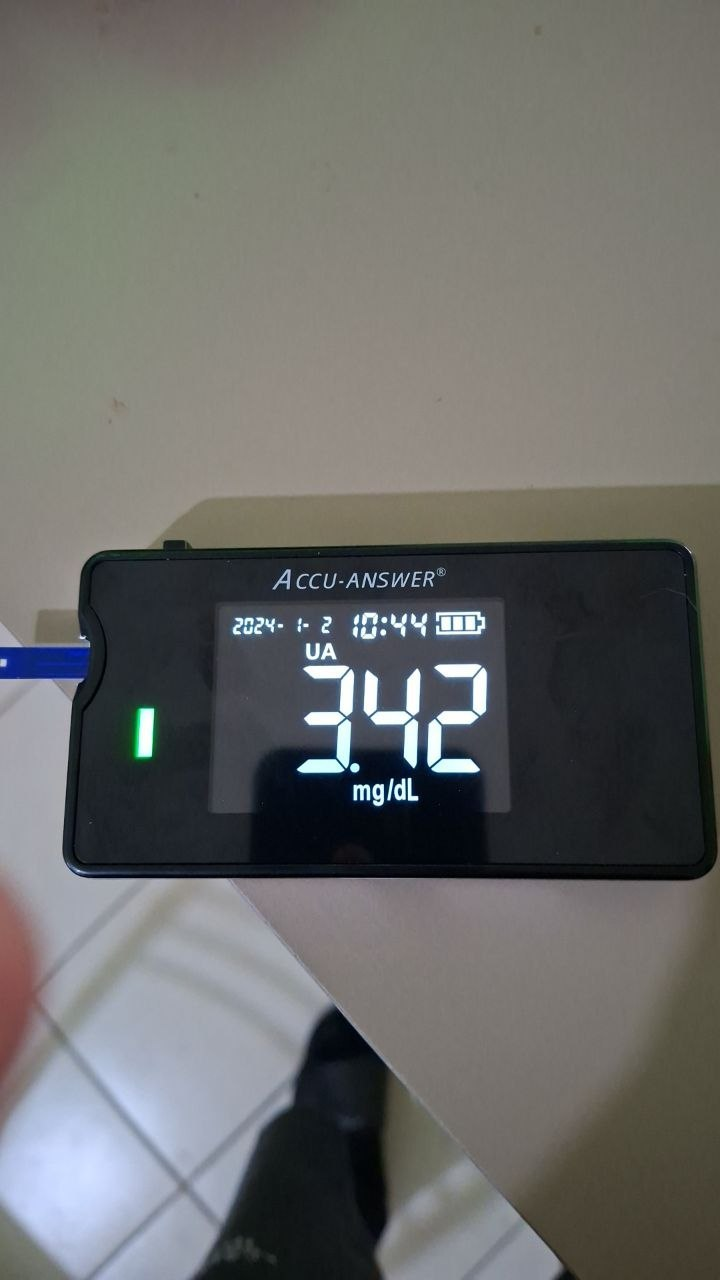
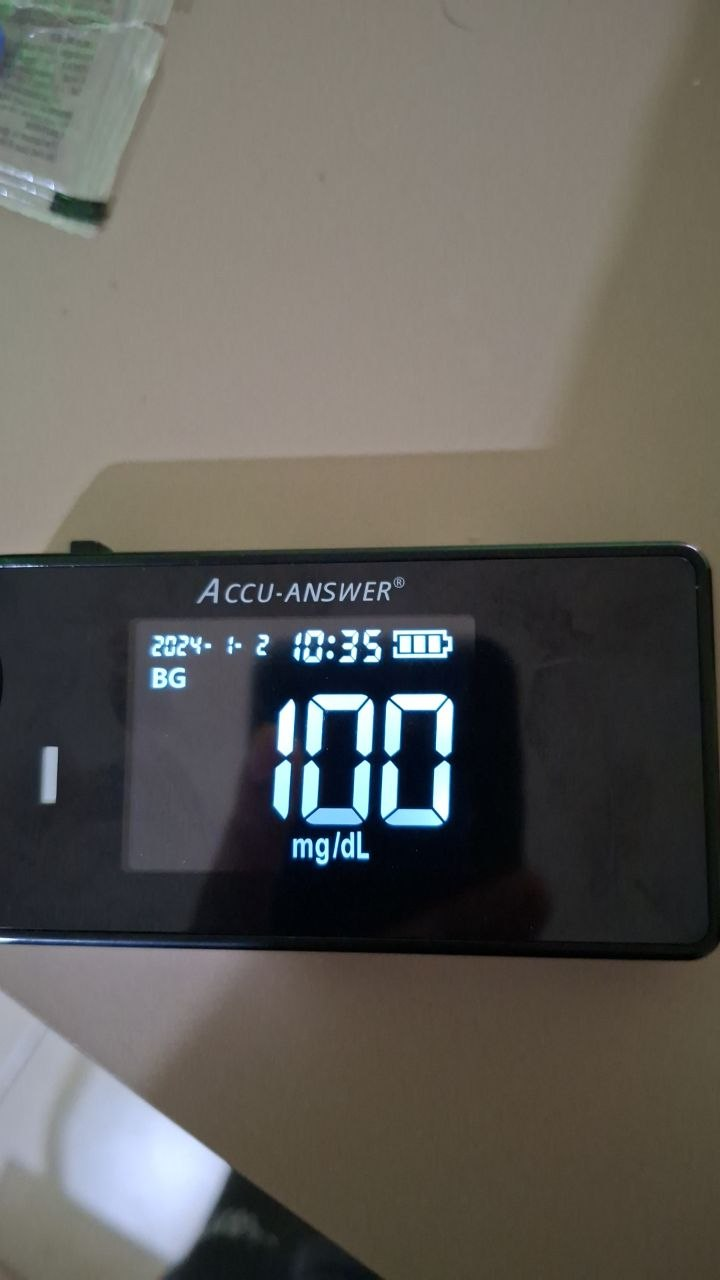
fix: correct image-to-metric mapping, labeled gallery layout, entity screenshot PNG
- Verified each image with Gemini Vision OCR to match correct metric
- Images renamed: glucose=100, cholesterol=103, hemoglobin=12.5, uric_acid=3.42
- Gallery layout: HTML table with image + label + value under each photo
- Entity screenshot: fixed extension .jpg → .png (was PNG saved as JPG)
- Updated README.md, README_ES.md, HEALTH-MONITORING.md

diff --git a/README_ES.md b/README_ES.md
@@ -306,23 +306,20 @@ Monitoreo de salud en tiempo real con dos fuentes de datos:
 
 ### Mediciones reales con Accu-Answer iSaw 4-in-1
 
-<p align="center">
-<img src="docs/health-monitoring/images/accu-answer-glucose-100.jpg" alt="Glucosa 100 mg/dL" width="160">
-<img src="docs/health-monitoring/images/accu-answer-cholesterol-103.jpg" alt="Colesterol 103 mg/dL" width="160">
-<img src="docs/health-monitoring/images/accu-answer-hemoglobin-12.5.jpg" alt="Hemoglobina 12.5 g/dL" width="160">
-<img src="docs/health-monitoring/images/accu-answer-uric-acid-3.42.jpg" alt="Ácido Úrico 3.42 mg/dL" width="160">
-</p>
+<table>
+<tr>
+<td align="center"><img src="docs/health-monitoring/images/accu-answer-glucose-100.jpg" width="160"><br><b>🔵 Glucosa</b><br>100 mg/dL 🟢</td>
+<td align="center"><img src="docs/health-monitoring/images/accu-answer-cholesterol-103.jpg" width="160"><br><b>🟣 Colesterol</b><br>103 mg/dL 🟢</td>
+<td align="center"><img src="docs/health-monitoring/images/accu-answer-hemoglobin-12.5.jpg" width="160"><br><b>🔴 Hemoglobina</b><br>12.5 g/dL 🟢</td>
+<td align="center"><img src="docs/health-monitoring/images/accu-answer-uric-acid-3.42.jpg" width="160"><br><b>🟠 Ácido Úrico</b><br>3.42 mg/dL 🟢</td>
+</tr>
+</table>
 
-| Métrica | Valor | Estado |
-|---------|-------|:------:|
-| 🔵 Glucosa | 100 mg/dL | 🟢 Normal |
-| 🟣 Colesterol | 103 mg/dL | 🟢 Excelente (¡era 250!) |
-| 🔴 Hemoglobina | 12.5 g/dL | 🟢 Normal |
-| 🟠 Ácido Úrico | 3.42 mg/dL | 🟢 Normal |
+> 🏆 **Logro clave**: Colesterol reducido de **250 → 103 mg/dL** (-58.8%) sin estatinas, mediante dieta y cambios de estilo de vida monitoreados por TokioAI.
 
 ### Entity Health Dashboard (En vivo)
 
-<img src="docs/health-monitoring/images/entity-health-dashboard.jpg" alt="TokioAI Entity — Dashboard de salud mostrando signos vitales y resultados de laboratorio en tiempo real" width="700">
+<img src="docs/health-monitoring/images/entity-health-dashboard.png" alt="TokioAI Entity — Dashboard de salud mostrando signos vitales y resultados de laboratorio en tiempo real" width="700">
 
 *El Entity muestra signos vitales en tiempo real del smartwatch BLE y resultados de laboratorio del Accu-Answer iSaw, todo en la pantalla de la Raspberry Pi 5.*
 

diff --git a/README.md b/README.md
@@ -382,23 +382,20 @@ Real-time health tracking with two data sources:
 
 ### Real measurements from Accu-Answer iSaw 4-in-1
 
-<p align="center">
-<img src="docs/health-monitoring/images/accu-answer-glucose-100.jpg" alt="Glucose 100 mg/dL" width="160">
-<img src="docs/health-monitoring/images/accu-answer-cholesterol-103.jpg" alt="Cholesterol 103 mg/dL" width="160">
-<img src="docs/health-monitoring/images/accu-answer-hemoglobin-12.5.jpg" alt="Hemoglobin 12.5 g/dL" width="160">
-<img src="docs/health-monitoring/images/accu-answer-uric-acid-3.42.jpg" alt="Uric Acid 3.42 mg/dL" width="160">
-</p>
+<table>
+<tr>
+<td align="center"><img src="docs/health-monitoring/images/accu-answer-glucose-100.jpg" width="160"><br><b>🔵 Glucose</b><br>100 mg/dL 🟢</td>
+<td align="center"><img src="docs/health-monitoring/images/accu-answer-cholesterol-103.jpg" width="160"><br><b>🟣 Cholesterol</b><br>103 mg/dL 🟢</td>
+<td align="center"><img src="docs/health-monitoring/images/accu-answer-hemoglobin-12.5.jpg" width="160"><br><b>🔴 Hemoglobin</b><br>12.5 g/dL 🟢</td>
+<td align="center"><img src="docs/health-monitoring/images/accu-answer-uric-acid-3.42.jpg" width="160"><br><b>🟠 Uric Acid</b><br>3.42 mg/dL 🟢</td>
+</tr>
+</table>
 
-| Metric | Value | Status |
-|--------|-------|:------:|
-| 🔵 Glucose | 100 mg/dL | 🟢 Normal |
-| 🟣 Cholesterol | 103 mg/dL | 🟢 Excellent (was 250!) |
-| 🔴 Hemoglobin | 12.5 g/dL | 🟢 Normal |
-| 🟠 Uric Acid | 3.42 mg/dL | 🟢 Normal |
+> 🏆 **Key achievement**: Cholesterol reduced from **250 → 103 mg/dL** (-58.8%) without statins, through diet and lifestyle changes tracked by TokioAI.
 
 ### Entity Health Dashboard (Live)
 
-<img src="docs/health-monitoring/images/entity-health-dashboard.jpg" alt="TokioAI Entity — Health Dashboard showing real-time vitals and lab results" width="700">
+<img src="docs/health-monitoring/images/entity-health-dashboard.png" alt="TokioAI Entity — Health Dashboard showing real-time vitals and lab results" width="700">
 
 *The Entity displays real-time vitals from the BLE smartwatch and lab results from the Accu-Answer iSaw, all on the Raspberry Pi 5 screen.*
 

diff --git a/docs/health-monitoring/HEALTH-MONITORING.md b/docs/health-monitoring/HEALTH-MONITORING.md
@@ -102,25 +102,22 @@ The [Accu-Answer iSaw 4-in-1](https://www.accuanswer.com/) is a multi-parameter 
 
 ### Example readings from Accu-Answer iSaw 4-in-1
 
-<p align="center">
-<img src="images/accu-answer-glucose-100.jpg" alt="Glucose 100 mg/dL" width="160">
-<img src="images/accu-answer-cholesterol-103.jpg" alt="Cholesterol 103 mg/dL" width="160">
-<img src="images/accu-answer-hemoglobin-12.5.jpg" alt="Hemoglobin 12.5 g/dL" width="160">
-<img src="images/accu-answer-uric-acid-3.42.jpg" alt="Uric Acid 3.42 mg/dL" width="160">
-</p>
+<table>
+<tr>
+<td align="center"><img src="images/accu-answer-glucose-100.jpg" width="160"><br><b>🔵 Glucose</b><br>100 mg/dL 🟢</td>
+<td align="center"><img src="images/accu-answer-cholesterol-103.jpg" width="160"><br><b>🟣 Cholesterol</b><br>103 mg/dL 🟢</td>
+<td align="center"><img src="images/accu-answer-hemoglobin-12.5.jpg" width="160"><br><b>🔴 Hemoglobin</b><br>12.5 g/dL 🟢</td>
+<td align="center"><img src="images/accu-answer-uric-acid-3.42.jpg" width="160"><br><b>🟠 Uric Acid</b><br>3.42 mg/dL 🟢</td>
+</tr>
+</table>
 
-| Metric | Value | Status |
-|--------|-------|:------:|
-| 🔵 Glucose | 100 mg/dL | 🟢 Normal |
-| 🟣 Cholesterol | 103 mg/dL | 🟢 Excellent (was 250!) |
-| 🔴 Hemoglobin | 12.5 g/dL | 🟢 Normal |
-| 🟠 Uric Acid | 3.42 mg/dL | 🟢 Normal |
+> 🏆 **Key achievement**: Cholesterol reduced from **250 → 103 mg/dL** (-58.8%) without statins.
 
 ### Entity Health Dashboard
 
 The Entity displays all health data in real-time on the Raspberry Pi 5 screen:
 
-<img src="images/entity-health-dashboard.jpg" alt="TokioAI Entity — Health Dashboard" width="700">
+<img src="images/entity-health-dashboard.png" alt="TokioAI Entity — Health Dashboard" width="700">
 
 *Live vitals from BLE smartwatch + lab results from Accu-Answer iSaw, displayed on the Entity's face screen.*
 
